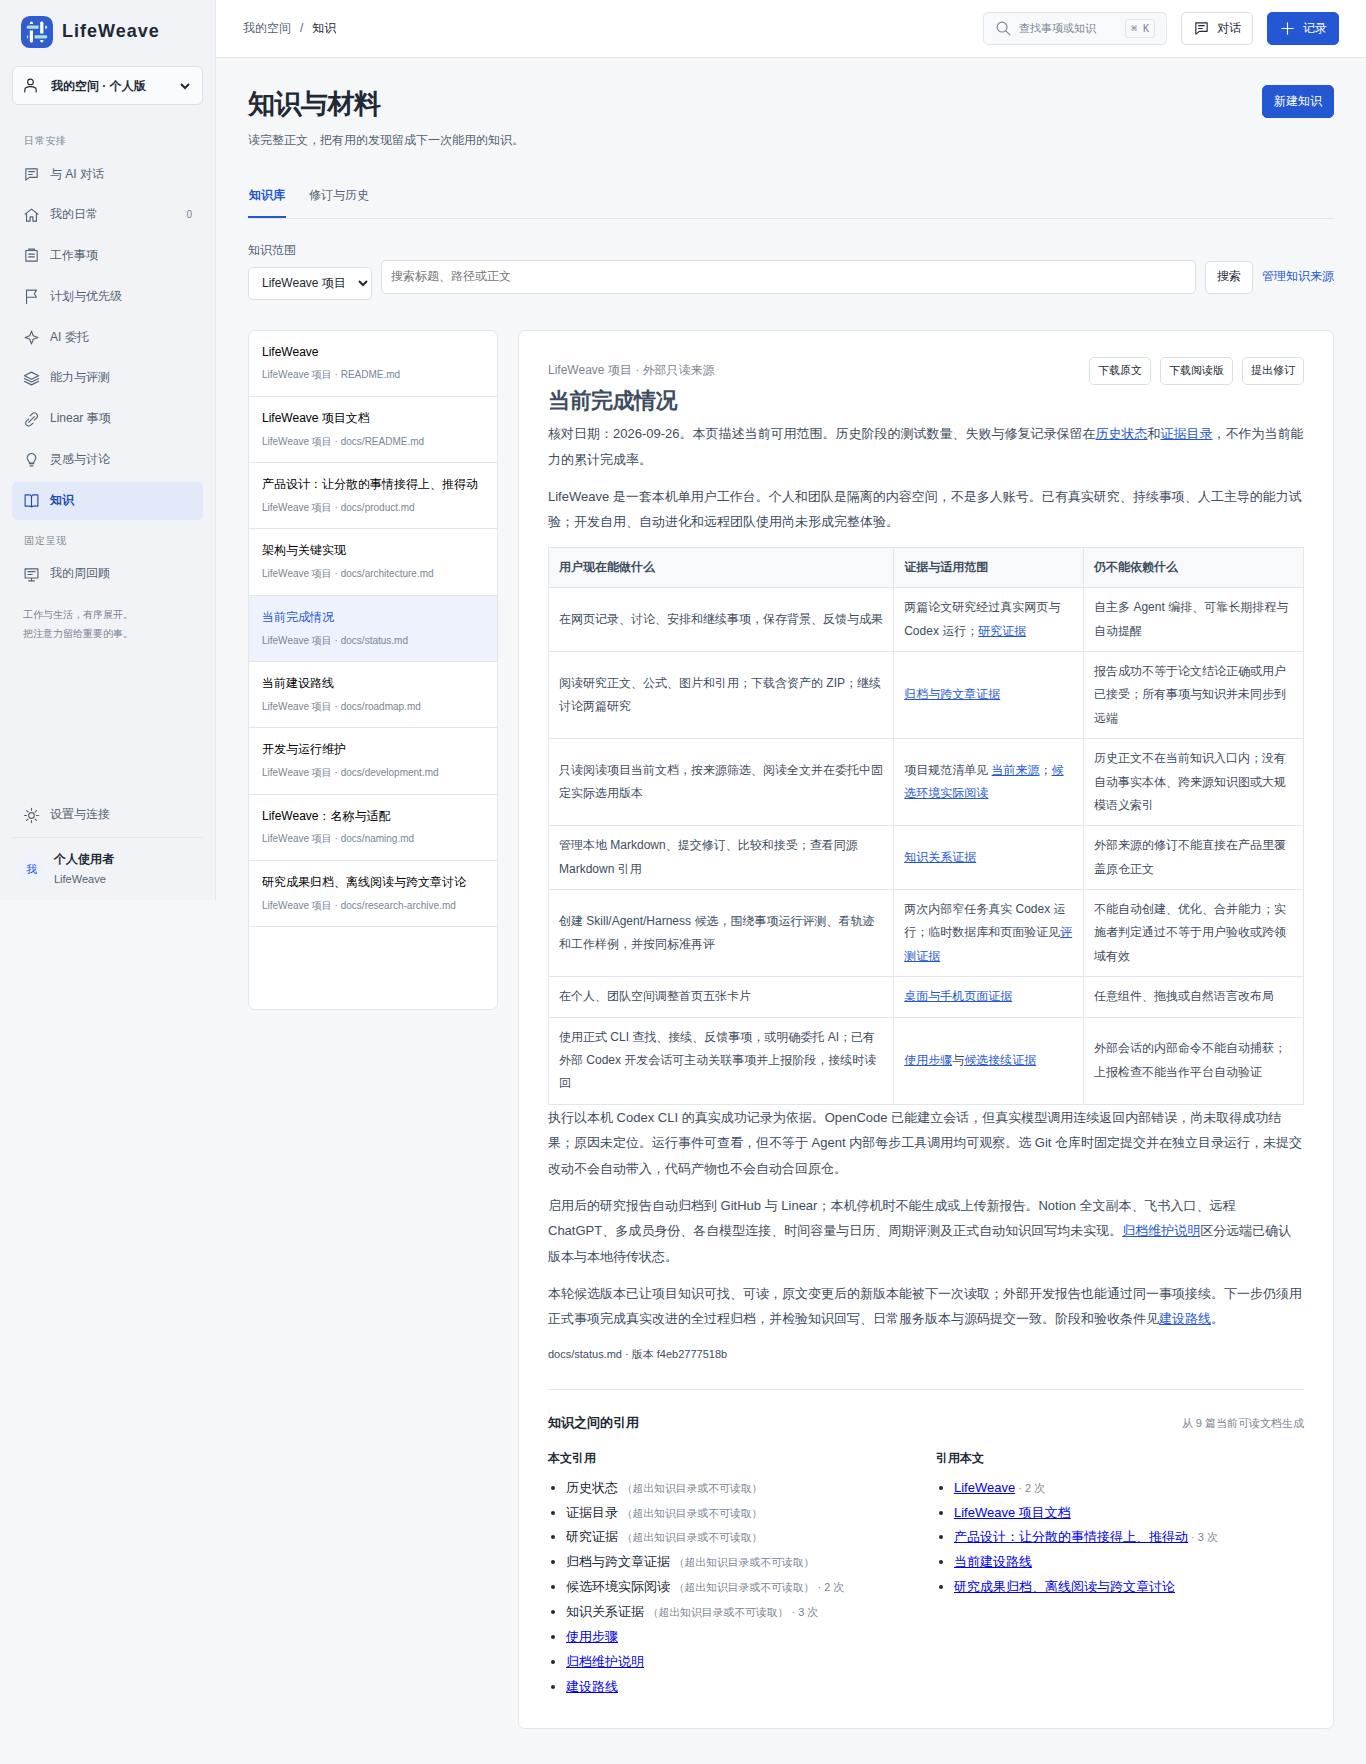
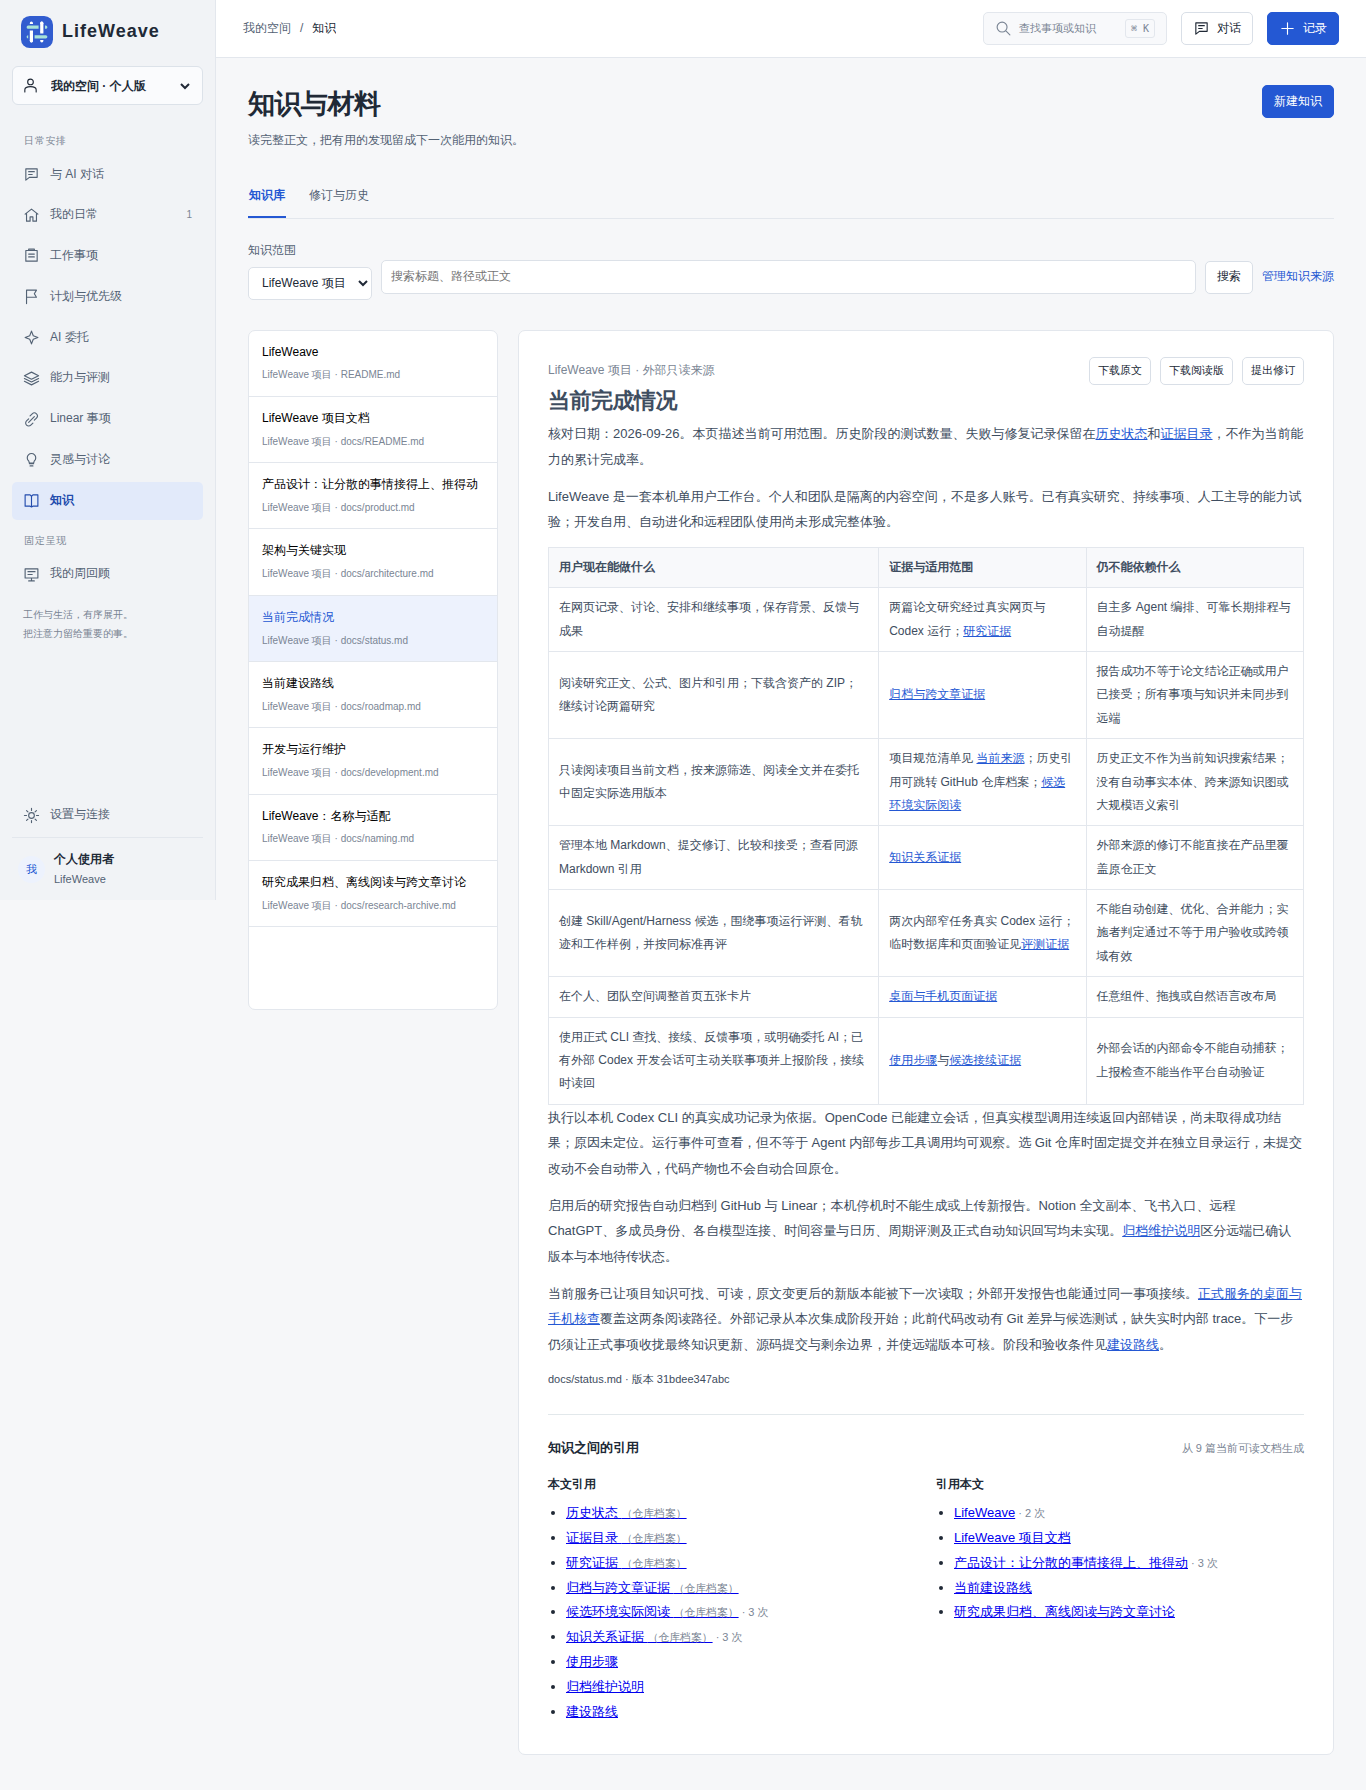
Link historical project references to repository archives

diff --git a/web/src/features/lifeweave/components/KnowledgeRelations.vue b/web/src/features/lifeweave/components/KnowledgeRelations.vue
@@ -31,7 +31,7 @@ function destination(sourceId: string, path: string) {
     <p v-if="loading" class="lw-small lw-sub" role="status">正在整理引用关系…</p>
     <p v-else-if="error" class="lw-notice warning" role="alert">{{ error }}</p>
     <template v-else-if="relations">
-      <div class="relations-grid"><div><h4>本文引用</h4><ul v-if="relations.outgoing.length"><li v-for="entry in relations.outgoing" :key="entry.href + entry.status"><RouterLink v-if="entry.status === 'valid' && entry.path" :to="destination(entry.sourceId, entry.path)">{{ entry.label }}</RouterLink><span v-else>{{ entry.label }} <small>（{{ entry.status === 'missing' ? '目标文件不存在' : '超出知识目录或不可读取' }}）</small></span><span v-if="entry.count > 1" class="lw-tiny lw-muted"> · {{ entry.count }} 次</span></li></ul><p v-else class="lw-small lw-sub">本文没有指向同一来源 Markdown 的链接。</p></div>
+      <div class="relations-grid"><div><h4>本文引用</h4><ul v-if="relations.outgoing.length"><li v-for="entry in relations.outgoing" :key="entry.href + entry.status"><RouterLink v-if="entry.status === 'valid' && entry.path" :to="destination(entry.sourceId, entry.path)">{{ entry.label }}</RouterLink><a v-else-if="entry.status === 'archived' && entry.externalUrl" :href="entry.externalUrl" target="_blank" rel="noopener noreferrer">{{ entry.label }} <small>（仓库档案）</small></a><span v-else>{{ entry.label }} <small>（{{ entry.status === 'missing' ? '目标文件不存在' : '超出知识目录或不可读取' }}）</small></span><span v-if="entry.count > 1" class="lw-tiny lw-muted"> · {{ entry.count }} 次</span></li></ul><p v-else class="lw-small lw-sub">本文没有指向同一来源 Markdown 的链接。</p></div>
       <div><h4>引用本文</h4><ul v-if="relations.backlinks.length"><li v-for="entry in relations.backlinks" :key="entry.sourceId + ':' + entry.path"><RouterLink :to="destination(entry.sourceId, entry.path)">{{ entry.title }}</RouterLink><span v-if="entry.count > 1" class="lw-tiny lw-muted"> · {{ entry.count }} 次</span></li></ul><p v-else class="lw-small lw-sub">当前可读文档中还没有指向本文的链接。</p></div></div>
       <details v-if="relations.unavailableSources.length || relations.unavailableDocuments.length"><summary>有来源未纳入本次引用检查</summary><p v-for="source in relations.unavailableSources" :key="source" class="lw-small lw-sub">来源不可用：{{ source }}</p><p v-for="file in relations.unavailableDocuments" :key="file.path" class="lw-small lw-sub">{{ file.path }}：{{ file.reason }}</p></details>
     </template>

diff --git a/web/src/features/lifeweave/pages/KnowledgePage.vue b/web/src/features/lifeweave/pages/KnowledgePage.vue
@@ -38,7 +38,17 @@ function follow(event:MouseEvent) {
  const href=anchor.getAttribute('href')??''
  if(href.startsWith('#')||href.startsWith('/api/'))return
  if(/^[a-z]+:/i.test(href)){anchor.target='_blank';anchor.rel='noopener noreferrer';return}
- if(href.split('#')[0]?.endsWith('.md')) { event.preventDefault();const path=resolveKnowledgePath(selected.value.path,href);if(path)void read({path,sourceId:selected.value.sourceId});else error.value='此链接超出了所选知识目录。' }
+ if(href.split('#')[0]?.endsWith('.md')) {
+  const path=resolveKnowledgePath(selected.value.path,href)
+  if(!path){event.preventDefault();error.value='此链接超出了所选知识目录。';return}
+  const source=availableSources.value.find(row=>row.id===selected.value?.sourceId)
+  const archivePath=path.startsWith('docs/history/')||path.startsWith('docs/evidence/')
+  if(source?.archiveBaseUrl && source.includedPaths && !source.includedPaths.includes(path) && archivePath){
+   anchor.href=`${source.archiveBaseUrl.replace(/\/$/,'')}/${path.split('/').map(encodeURIComponent).join('/')}`
+   anchor.target='_blank';anchor.rel='noopener noreferrer';return
+  }
+  event.preventDefault();void read({path,sourceId:selected.value.sourceId})
+ }
 }
 watch(activeWorkspace,()=>{sourceFilter.value='all'})
 watch([activeWorkspace,()=>route.query.path,()=>route.query.source],()=> { selected.value=null;selectedChange.value=null;editing.value=false;void action(async()=> { await refresh();const path=String(route.query.path??'');if(path) selected.value=await library.document(activeWorkspace.value,path,String(route.query.source??'local')) }) },{immediate:true})

diff --git a/web/src/features/lifeweave/components/KnowledgeRelations.test.ts b/web/src/features/lifeweave/components/KnowledgeRelations.test.ts
@@ -9,6 +9,7 @@ vi.mock('../api/library', () => ({
       { sourceId: 'local', path: '研究/Drive1.0.md', label: 'Drive1.0', href: 'Drive1.0.md', status: 'valid', count: 2 },
       { sourceId: 'local', path: '研究/缺失.md', label: '旧笔记', href: '缺失.md', status: 'missing', count: 1 },
       { sourceId: 'local', path: null, label: '越界', href: '../../私有.md', status: 'blocked', count: 1 },
+      { sourceId: 'lifeweave-project', path: null, label: '旧档案', href: 'history/old.md', status: 'archived', externalUrl: 'https://example.test/blob/main/docs/history/old.md', count: 1 },
     ],
     backlinks: [{ sourceId: 'local', path: '研究/索引.md', title: '研究索引', label: 'GSSM', count: 1 }],
     unavailableSources: [], unavailableDocuments: [],
@@ -25,9 +26,11 @@ describe('KnowledgeRelations', () => {
     expect(wrapper.text()).toContain('从 3 篇当前可读文档生成')
     expect(wrapper.text()).toContain('目标文件不存在')
     expect(wrapper.text()).toContain('超出知识目录或不可读取')
+    expect(wrapper.text()).toContain('仓库档案')
     const links = wrapper.findAll('a')
-    expect(links.map(link => link.text())).toEqual(['Drive1.0', '研究索引'])
+    expect(links.map(link => link.text())).toEqual(['Drive1.0', '旧档案 （仓库档案）', '研究索引'])
     expect(links[0]?.attributes('href')).toContain('Drive1.0.md')
-    expect(links[1]?.attributes('href')).toContain('索引.md')
+    expect(links[1]?.attributes('href')).toContain('https://example.test/blob/main/docs/history/old.md')
+    expect(links[2]?.attributes('href')).toContain('索引.md')
   })
 })

diff --git a/web/src/features/lifeweave/api/library.ts b/web/src/features/lifeweave/api/library.ts
@@ -1,12 +1,12 @@
 import { http } from '@/shared/api/http'
 import type { WorkspaceKind } from '../types'
-export interface Source { id: string; title: string; root: string; writable: boolean }
+export interface Source { id: string; title: string; root: string; writable: boolean; includedPaths?: string[]; archiveBaseUrl?: string | null }
 export interface ReferenceMap { links: Record<string,string>; images: Record<string,string>; warnings: string[] }
 export interface Document { path: string; sourceId: string; title: string; content: string; version: string; writable: boolean; sourceTitle: string; references?: ReferenceMap|null }
 export interface Revision { id: string; source_id: string; path: string; content: string; before_content: string; diff: string; reason: string; status: 'draft'|'accepted'|'rejected'; created_at: string; references?: ReferenceMap|null }
 export interface KnowledgeRelations {
   sourceId: string; path: string; version: string; scannedDocuments: number
-  outgoing: Array<{ sourceId: string; path: string | null; label: string; href: string; status: 'valid' | 'missing' | 'blocked'; count: number }>
+  outgoing: Array<{ sourceId: string; path: string | null; label: string; href: string; status: 'valid' | 'missing' | 'blocked' | 'archived'; externalUrl?: string | null; count: number }>
   backlinks: Array<{ sourceId: string; path: string; title: string; label: string; count: number }>
   unavailableSources: string[]; unavailableDocuments: Array<{ path: string; reason: string }>
 }

diff --git a/tests/test_live_database.py b/tests/test_live_database.py
@@ -63,11 +63,12 @@ def test_current_project_knowledge_uses_one_read_only_source_and_live_versions(d
     (project / 'docs/history').mkdir(parents=True)
     (project / 'docs/current-sources.json').write_text(json.dumps({
         'id': 'lifeweave-project', 'title': 'LifeWeave 项目',
+        'archiveBaseUrl': 'https://example.test/repository/blob/main',
         'paths': ['README.md', 'docs/status.md'],
     }), encoding='utf-8')
     (project / 'README.md').write_text('# LifeWeave\n[状态](docs/status.md)', encoding='utf-8')
     status = project / 'docs/status.md'
-    status.write_text('# 当前状态\n开发事项可接续。', encoding='utf-8')
+    status.write_text('# 当前状态\n开发事项可接续。\n[历史](history/old.md)', encoding='utf-8')
     (project / 'docs/history/old.md').write_text('# 旧状态\n过期判断', encoding='utf-8')
     client.app.state.library.project_root = project
     base = '/api/lifeweave/personal/library'
@@ -78,13 +79,17 @@ def test_current_project_knowledge_uses_one_read_only_source_and_live_versions(d
     assert client.get(base + '/documents', params={'sourceId': 'nonexistent'}).status_code == 404
     assert client.get(base + '/document', params={'sourceId': 'lifeweave-project',
                                                   'path': 'docs/history/old.md'}).status_code == 409
+    outgoing = client.get(base + '/links', params={'sourceId': 'lifeweave-project',
+                                                   'path': 'docs/status.md'}).json()['outgoing']
+    assert outgoing[0]['status'] == 'archived'
+    assert outgoing[0]['externalUrl'] == 'https://example.test/repository/blob/main/docs/history/old.md'
     first = client.get(base + '/document', params={'sourceId': 'lifeweave-project',
                                                    'path': 'docs/status.md'}).json()
     first_snapshot = client.app.state.task_sources.snapshot('personal', None,
                                                              ['lifeweave-project:docs/status.md'])[0]
     assert first_snapshot['content'] == first['content']
     assert first_snapshot['version'] == first['version']
-    status.write_text('# 当前状态\n开发事项和知识更新可接续。', encoding='utf-8')
+    status.write_text('# 当前状态\n开发事项和知识更新可接续。\n[历史](history/old.md)', encoding='utf-8')
     updated = client.get(base + '/document', params={'sourceId': 'lifeweave-project',
                                                      'path': 'docs/status.md'}).json()
     assert updated['version'] != first['version']

diff --git a/src/lifeweave_knowledge/links.py b/src/lifeweave_knowledge/links.py
@@ -6,6 +6,7 @@ from pathlib import Path
 from threading import RLock
 from typing import Any
 from urllib.parse import unquote, urlsplit
+from urllib.parse import quote
 
 import mistune
 
@@ -37,15 +38,25 @@ class KnowledgeLinks:
                         if decoded.lower().endswith('.md'):
                             target = posixpath.normpath(posixpath.join(posixpath.dirname(path), decoded))
                             status = 'valid'
+                            external_url = None
                             try:
                                 self.library.file(workspace, source_id, target)
                             except (ValueError, KeyError, OSError):
                                 status = 'blocked'
+                                source = self.library.source(workspace, source_id)
+                                root = Path(source['root']).resolve()
+                                archived = (root / target).resolve()
+                                if (source.get('archiveBaseUrl') and
+                                        target.startswith(('docs/history/', 'docs/evidence/')) and
+                                        archived.is_relative_to(root) and archived.is_file() and
+                                        archived.suffix.lower() == '.md'):
+                                    status = 'archived'
+                                    external_url = source['archiveBaseUrl'].rstrip('/') + '/' + quote(target, safe='/')
                             key = (target if status == 'valid' else href, status)
                             if key not in found:
                                 found[key] = {'label': _label(token).strip() or Path(decoded).stem,
                                               'href': href, 'path': target if status == 'valid' else None,
-                                              'status': status, 'count': 0}
+                                              'status': status, 'externalUrl': external_url, 'count': 0}
                             found[key]['count'] += 1
                 walk(token.get('children', []))
 

diff --git a/src/lifeweave_knowledge/library.py b/src/lifeweave_knowledge/library.py
@@ -25,7 +25,8 @@ class Library:
     def project_source(self):
         manifest = json.loads((self.project_root / 'docs/current-sources.json').read_text(encoding='utf-8'))
         return {'id': manifest['id'], 'title': manifest['title'], 'root': str(self.project_root),
-                'writable': False, 'includedPaths': manifest['paths']}
+                'writable': False, 'includedPaths': manifest['paths'],
+                'archiveBaseUrl': manifest.get('archiveBaseUrl')}
 
     def sources(self, workspace: str):
         if workspace not in self.roots:

diff --git a/docs/evidence/project-development/README.md b/docs/evidence/project-development/README.md
@@ -17,4 +17,6 @@
 
 正式会话开始时选入的 `docs/status.md` 内容指纹为 `f4eb2777518b`；修订当前状态说明后再次从正式 CLI 读取，得到 `591f5ec184cb`，全文包含新的正式服务核查。知识阶段报告也固定了当时 `docs/status.md` 和 `docs/architecture.md` 的版本。新版本可读不代表历史输入被静默覆盖：外部会话开始事件仍保留旧版本。
 
-当前项目知识是按清单读取 Git 工作区文件，来源版本是内容指纹；本次候选截图中的提交还是修改前的基线。它没有持久增量索引、跨来源关联或单独的发布状态。历史档案留在 Git，知识页的当前来源不能直接打开历史正文；从文档链接追溯历史需到代码仓。外部开发报告只记录主动提交的阶段和服务当时可观察的 Git 状态；无法重建此前未上报的内部命令。日常服务此时使用已验证源码和前端构建，健康接口的应用版本仍为 `0.1.0`，不提供精确 Git 构建身份；最终源码提交和远端回读需单独核对。
+收尾浏览器核查发现历史 Markdown 在知识页原先被标为不可读取。修复后，历史与证据文件仍不进入九篇当前规范清单，但存在的仓库文件会显示“仓库档案”链接。再次停止日常服务并备份到 `.runtime/backups/lifeweave-20260926-183652.dump` 和对应知识包后启动；8010 的 `/library/links` 返回已存在历史档案的 GitHub 地址。桌面新浏览器点击正文中的“历史状态”实际打开 `github.com/pokemonAndCodeMaster/Life-Weave/blob/main/docs/history/status-through-20260926.md`，手机视口可见档案链接，均无页面异常。
+
+当前项目知识是按清单读取 Git 工作区文件，来源版本是内容指纹；本次候选截图中的提交还是修改前的基线。它没有持久增量索引、跨来源关联或单独的发布状态。历史档案留在 Git；当前文档中指向已存在历史或证据 Markdown 的链接可跳转仓库查看，不纳入当前知识搜索结果。外部开发报告只记录主动提交的阶段和服务当时可观察的 Git 状态；无法重建此前未上报的内部命令。日常服务此时使用已验证源码和前端构建，健康接口的应用版本仍为 `0.1.0`，不提供精确 Git 构建身份；最终源码提交和远端回读需单独核对。
